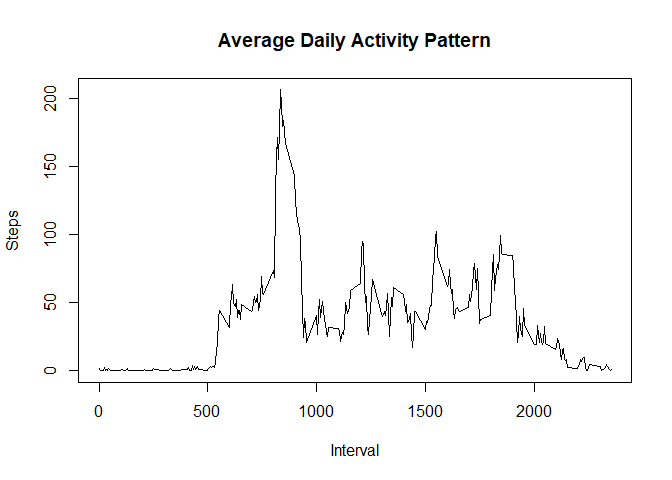
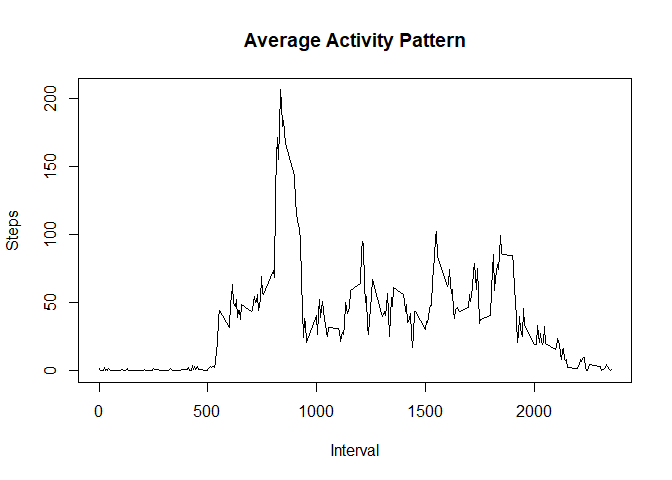
question 3 and 4 completed

Changed region(s): [[0.3125, 0.0625, 0.75, 0.125]]

diff --git a/PA1_template.html b/PA1_template.html
@@ -422,22 +422,69 @@ medianStepsPerDay &lt;-  median(TotalStepsPerDay, na.rm = TRUE)</code></pre>
 <div id="what-is-the-average-daily-activity-pattern" class="section level2">
 <h2>What is the average daily activity pattern?</h2>
 <p>Make a time series plot (i.e. type = “l”) of the 5-minute interval (x-axis) and the average number of steps taken, averaged across all days (y-axis)</p>
-<pre class="r"><code>StepsPerInterval &lt;- tapply(activity$steps, activity$interval, mean, na.rm = TRUE)
-plot(as.numeric(names(StepsPerInterval)), 
-     StepsPerInterval, 
+<pre class="r"><code>Interval &lt;- tapply(activity$steps, activity$interval, mean, na.rm = TRUE)
+plot(as.numeric(names(Interval)), 
+     Interval, 
      xlab = &quot;Interval&quot;, 
      ylab = &quot;Steps&quot;, 
-     main = &quot;Average Daily Activity Pattern&quot;, 
+     main = &quot;Average Activity Pattern&quot;, 
      type = &quot;l&quot;)</code></pre>
[1 lines of base64/hex data omitted]
-<pre class="r"><code>maxInterval &lt;- names(sort(StepsPerInterval, decreasing = TRUE)[1])
-maxSteps &lt;- sort(StepsPerInterval, decreasing = TRUE)[1]</code></pre>
[1 lines of base64/hex data omitted]
+<pre class="r"><code>maxInterval &lt;- names(sort(Interval, decreasing = TRUE)[1])
+maxSteps &lt;- sort(Interval, decreasing = TRUE)[1]</code></pre>
 </div>
 <div id="imputing-missing-values" class="section level2">
 <h2>Imputing missing values</h2>
+<p>. Calculate and report the total number of missing values in the dataset (i.e. the total number of rows with NAs)</p>
+<pre class="r"><code>missingvalues &lt;- nrow(activity[is.na(activity$steps),])</code></pre>
+<p>. Devise a strategy for filling in all of the missing values in the dataset. The strategy does not need to be sophisticated. Using the mean for all the days</p>
+<p>. Create a new dataset that is equal to the original dataset but with the missing data filled in.</p>
+<pre class="r"><code>Interval &lt;- tapply(activity$steps, activity$interval, mean, na.rm = TRUE)
+# split activity data by interval
+activity.split &lt;- split(activity, activity$interval)
+# fill in missing data for each interval
+for(i in 1:length(activity.split)){
+    activity.split[[i]]$steps[is.na(activity.split[[i]]$steps)] &lt;- Interval[i]
+}
+activity.desciprtion &lt;- do.call(&quot;rbind&quot;, activity.split)
+activity.desciprtion &lt;- activity.desciprtion[order(activity.desciprtion$date) ,]</code></pre>
+<p>. Make a histogram of the total number of steps taken each day and Calculate and report the mean and median total number of steps taken per day. Do these values differ from the estimates from the first part of the assignment? What is the impact of imputing missing data on the estimates of the total daily number of steps?</p>
+<pre class="r"><code>TotalStepsPerDays &lt;- tapply(activity.desciprtion$steps, activity.desciprtion$date, sum)
+hist(TotalStepsPerDays, xlab = &quot;Number of Steps&quot;, main = &quot;Histogram: Steps per Day&quot;)</code></pre>
[1 lines of base64/hex data omitted]
+<pre class="r"><code>MeanPerDay.imputed &lt;- mean(TotalStepsPerDays, na.rm = TRUE)
+MedianPerDay.imputed &lt;- median(TotalStepsPerDays, na.rm = TRUE)</code></pre>
 </div>
 <div id="are-there-differences-in-activity-patterns-between-weekdays-and-weekends" class="section level2">
 <h2>Are there differences in activity patterns between weekdays and weekends?</h2>
+<p>. Create a new factor variable in the dataset with two levels – “weekday” and “weekend” indicating whether a given date is a weekday or weekend day.</p>
+<pre class="r"><code>activity.desciprtion$day &lt;- ifelse(weekdays(as.Date(activity.desciprtion$date)) == &quot;Saturday&quot; | weekdays(as.Date(activity.desciprtion$date)) == &quot;Sunday&quot;, &quot;weekend&quot;, &quot;weekday&quot;)</code></pre>
+<p>. Make a panel plot containing a time series plot (i.e.type = “l”) of the 5-minute interval (x-axis) and the average number of steps taken, averaged across all weekday days or weekend days (y-axis). See the README file in the GitHub repository to see an example of what this plot should look like using simulated data.</p>
+<pre class="r"><code># Calculate average steps per interval for weekends
+StepsPerInterval.weekend &lt;- tapply(activity.desciprtion[activity.desciprtion$day == &quot;weekend&quot; ,]$steps, activity.desciprtion[activity.desciprtion$day == &quot;weekend&quot; ,]$interval, mean, na.rm = TRUE)
+
+# Calculate average steps per interval for weekdays
+StepsPerInterval.weekday &lt;- tapply(activity.desciprtion[activity.desciprtion$day == &quot;weekday&quot; ,]$steps, activity.desciprtion[activity.desciprtion$day == &quot;weekday&quot; ,]$interval, mean, na.rm = TRUE)
+
+# Set a 2 panel plot
+par(mfrow=c(1,2))
+
+# Plot weekday activity
+plot(as.numeric(names(StepsPerInterval.weekday)), 
+     StepsPerInterval.weekday, 
+     xlab = &quot;Interval&quot;, 
+     ylab = &quot;Steps&quot;, 
+     main = &quot;Activity Pattern (Weekdays)&quot;, 
+     type = &quot;l&quot;)
+
+# Plot weekend activity
+plot(as.numeric(names(StepsPerInterval.weekend)), 
+     StepsPerInterval.weekend, 
+     xlab = &quot;Interval&quot;, 
+     ylab = &quot;Steps&quot;, 
+     main = &quot;Activity Pattern (Weekends)&quot;, 
+     type = &quot;l&quot;)</code></pre>
[1 lines of base64/hex data omitted]
 </div>
 
 

diff --git a/PA1_template.md b/PA1_template.md
@@ -86,12 +86,12 @@ medianStepsPerDay <-  median(TotalStepsPerDay, na.rm = TRUE)
 Make a time series plot (i.e. type = "l") of the 5-minute interval (x-axis) and the average number of steps taken, averaged across all days (y-axis)
 
 ```r
-StepsPerInterval <- tapply(activity$steps, activity$interval, mean, na.rm = TRUE)
-plot(as.numeric(names(StepsPerInterval)), 
-     StepsPerInterval, 
+Interval <- tapply(activity$steps, activity$interval, mean, na.rm = TRUE)
+plot(as.numeric(names(Interval)), 
+     Interval, 
      xlab = "Interval", 
      ylab = "Steps", 
-     main = "Average Daily Activity Pattern", 
+     main = "Average Activity Pattern", 
      type = "l")
 ```
 
@@ -99,12 +99,82 @@ plot(as.numeric(names(StepsPerInterval)),
 Which 5-minute interval, on average across all the days in the dataset, contains the maximum number of steps?
 
 ```r
-maxInterval <- names(sort(StepsPerInterval, decreasing = TRUE)[1])
-maxSteps <- sort(StepsPerInterval, decreasing = TRUE)[1]
+maxInterval <- names(sort(Interval, decreasing = TRUE)[1])
+maxSteps <- sort(Interval, decreasing = TRUE)[1]
 ```
 ## Imputing missing values
+. Calculate and report the total number of missing values in the dataset (i.e. the total number of rows with NAs)
 
+```r
+missingvalues <- nrow(activity[is.na(activity$steps),])
+```
+. Devise a strategy for filling in all of the missing values in the dataset. The strategy does not need to be sophisticated. 
+Using the mean for all the days
+
+. Create a new dataset that is equal to the original dataset but with the missing data filled in.
+
+```r
+Interval <- tapply(activity$steps, activity$interval, mean, na.rm = TRUE)
+# split activity data by interval
+activity.split <- split(activity, activity$interval)
+# fill in missing data for each interval
+for(i in 1:length(activity.split)){
+    activity.split[[i]]$steps[is.na(activity.split[[i]]$steps)] <- Interval[i]
+}
+activity.desciprtion <- do.call("rbind", activity.split)
+activity.desciprtion <- activity.desciprtion[order(activity.desciprtion$date) ,]
+```
+. Make a histogram of the total number of steps taken each day and Calculate and report the mean and median total number of steps taken per day. Do these values differ from the estimates from the first part of the assignment? What is the impact of imputing missing data on the estimates of the total daily number of steps?
+
+
+```r
+TotalStepsPerDays <- tapply(activity.desciprtion$steps, activity.desciprtion$date, sum)
+hist(TotalStepsPerDays, xlab = "Number of Steps", main = "Histogram: Steps per Day")
+```
+
+![](PA1_template_files/figure-html/unnamed-chunk-8-1.png)<!-- -->
+
+```r
+MeanPerDay.imputed <- mean(TotalStepsPerDays, na.rm = TRUE)
+MedianPerDay.imputed <- median(TotalStepsPerDays, na.rm = TRUE)
+```
 
 
 ## Are there differences in activity patterns between weekdays and weekends?
 
+. Create a new factor variable in the dataset with two levels – “weekday” and “weekend” indicating whether a given date is a weekday or weekend day.
+
+```r
+activity.desciprtion$day <- ifelse(weekdays(as.Date(activity.desciprtion$date)) == "Saturday" | weekdays(as.Date(activity.desciprtion$date)) == "Sunday", "weekend", "weekday")
+```
+. Make a panel plot containing a time series plot (i.e.type = "l") of the 5-minute interval (x-axis) and the average number of steps taken, averaged across all weekday days or weekend days (y-axis). See the README file in the GitHub repository to see an example of what this plot should look like using simulated data.
+
+
+```r
+# Calculate average steps per interval for weekends
+StepsPerInterval.weekend <- tapply(activity.desciprtion[activity.desciprtion$day == "weekend" ,]$steps, activity.desciprtion[activity.desciprtion$day == "weekend" ,]$interval, mean, na.rm = TRUE)
+
+# Calculate average steps per interval for weekdays
+StepsPerInterval.weekday <- tapply(activity.desciprtion[activity.desciprtion$day == "weekday" ,]$steps, activity.desciprtion[activity.desciprtion$day == "weekday" ,]$interval, mean, na.rm = TRUE)
+
+# Set a 2 panel plot
+par(mfrow=c(1,2))
+
+# Plot weekday activity
+plot(as.numeric(names(StepsPerInterval.weekday)), 
+     StepsPerInterval.weekday, 
+     xlab = "Interval", 
+     ylab = "Steps", 
+     main = "Activity Pattern (Weekdays)", 
+     type = "l")
+
+# Plot weekend activity
+plot(as.numeric(names(StepsPerInterval.weekend)), 
+     StepsPerInterval.weekend, 
+     xlab = "Interval", 
+     ylab = "Steps", 
+     main = "Activity Pattern (Weekends)", 
+     type = "l")
+```
+
+![](PA1_template_files/figure-html/unnamed-chunk-10-1.png)<!-- -->
